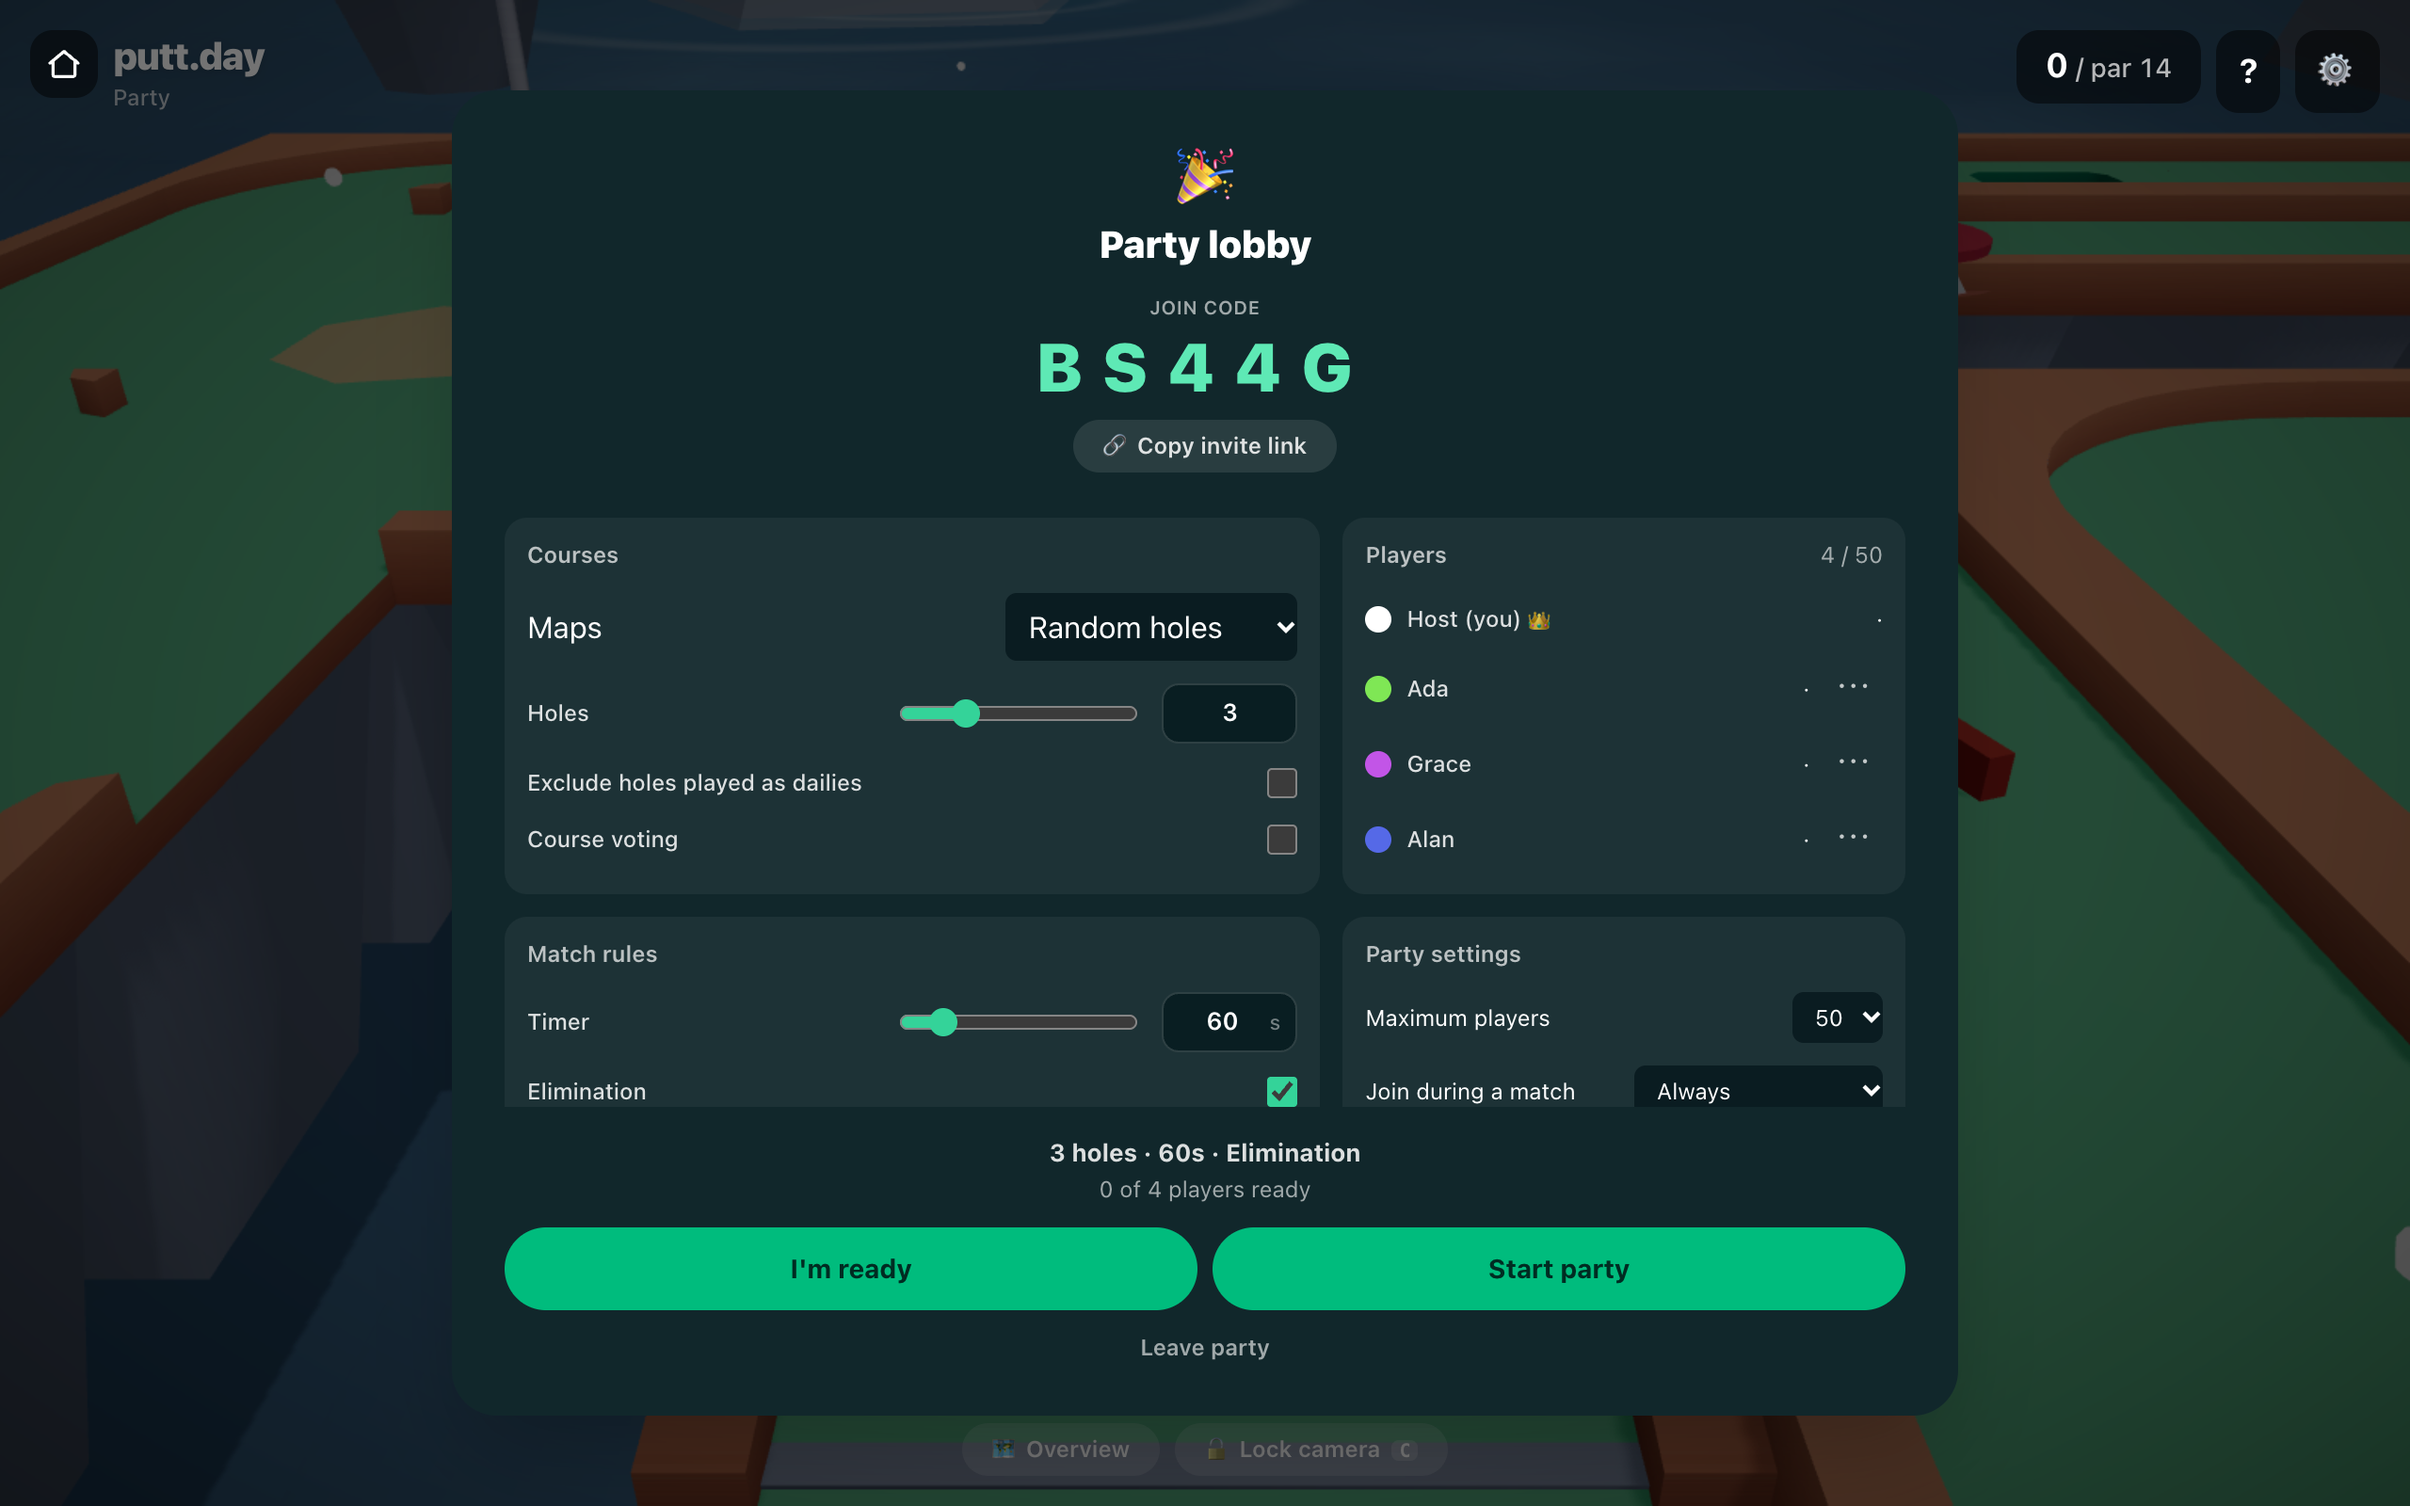
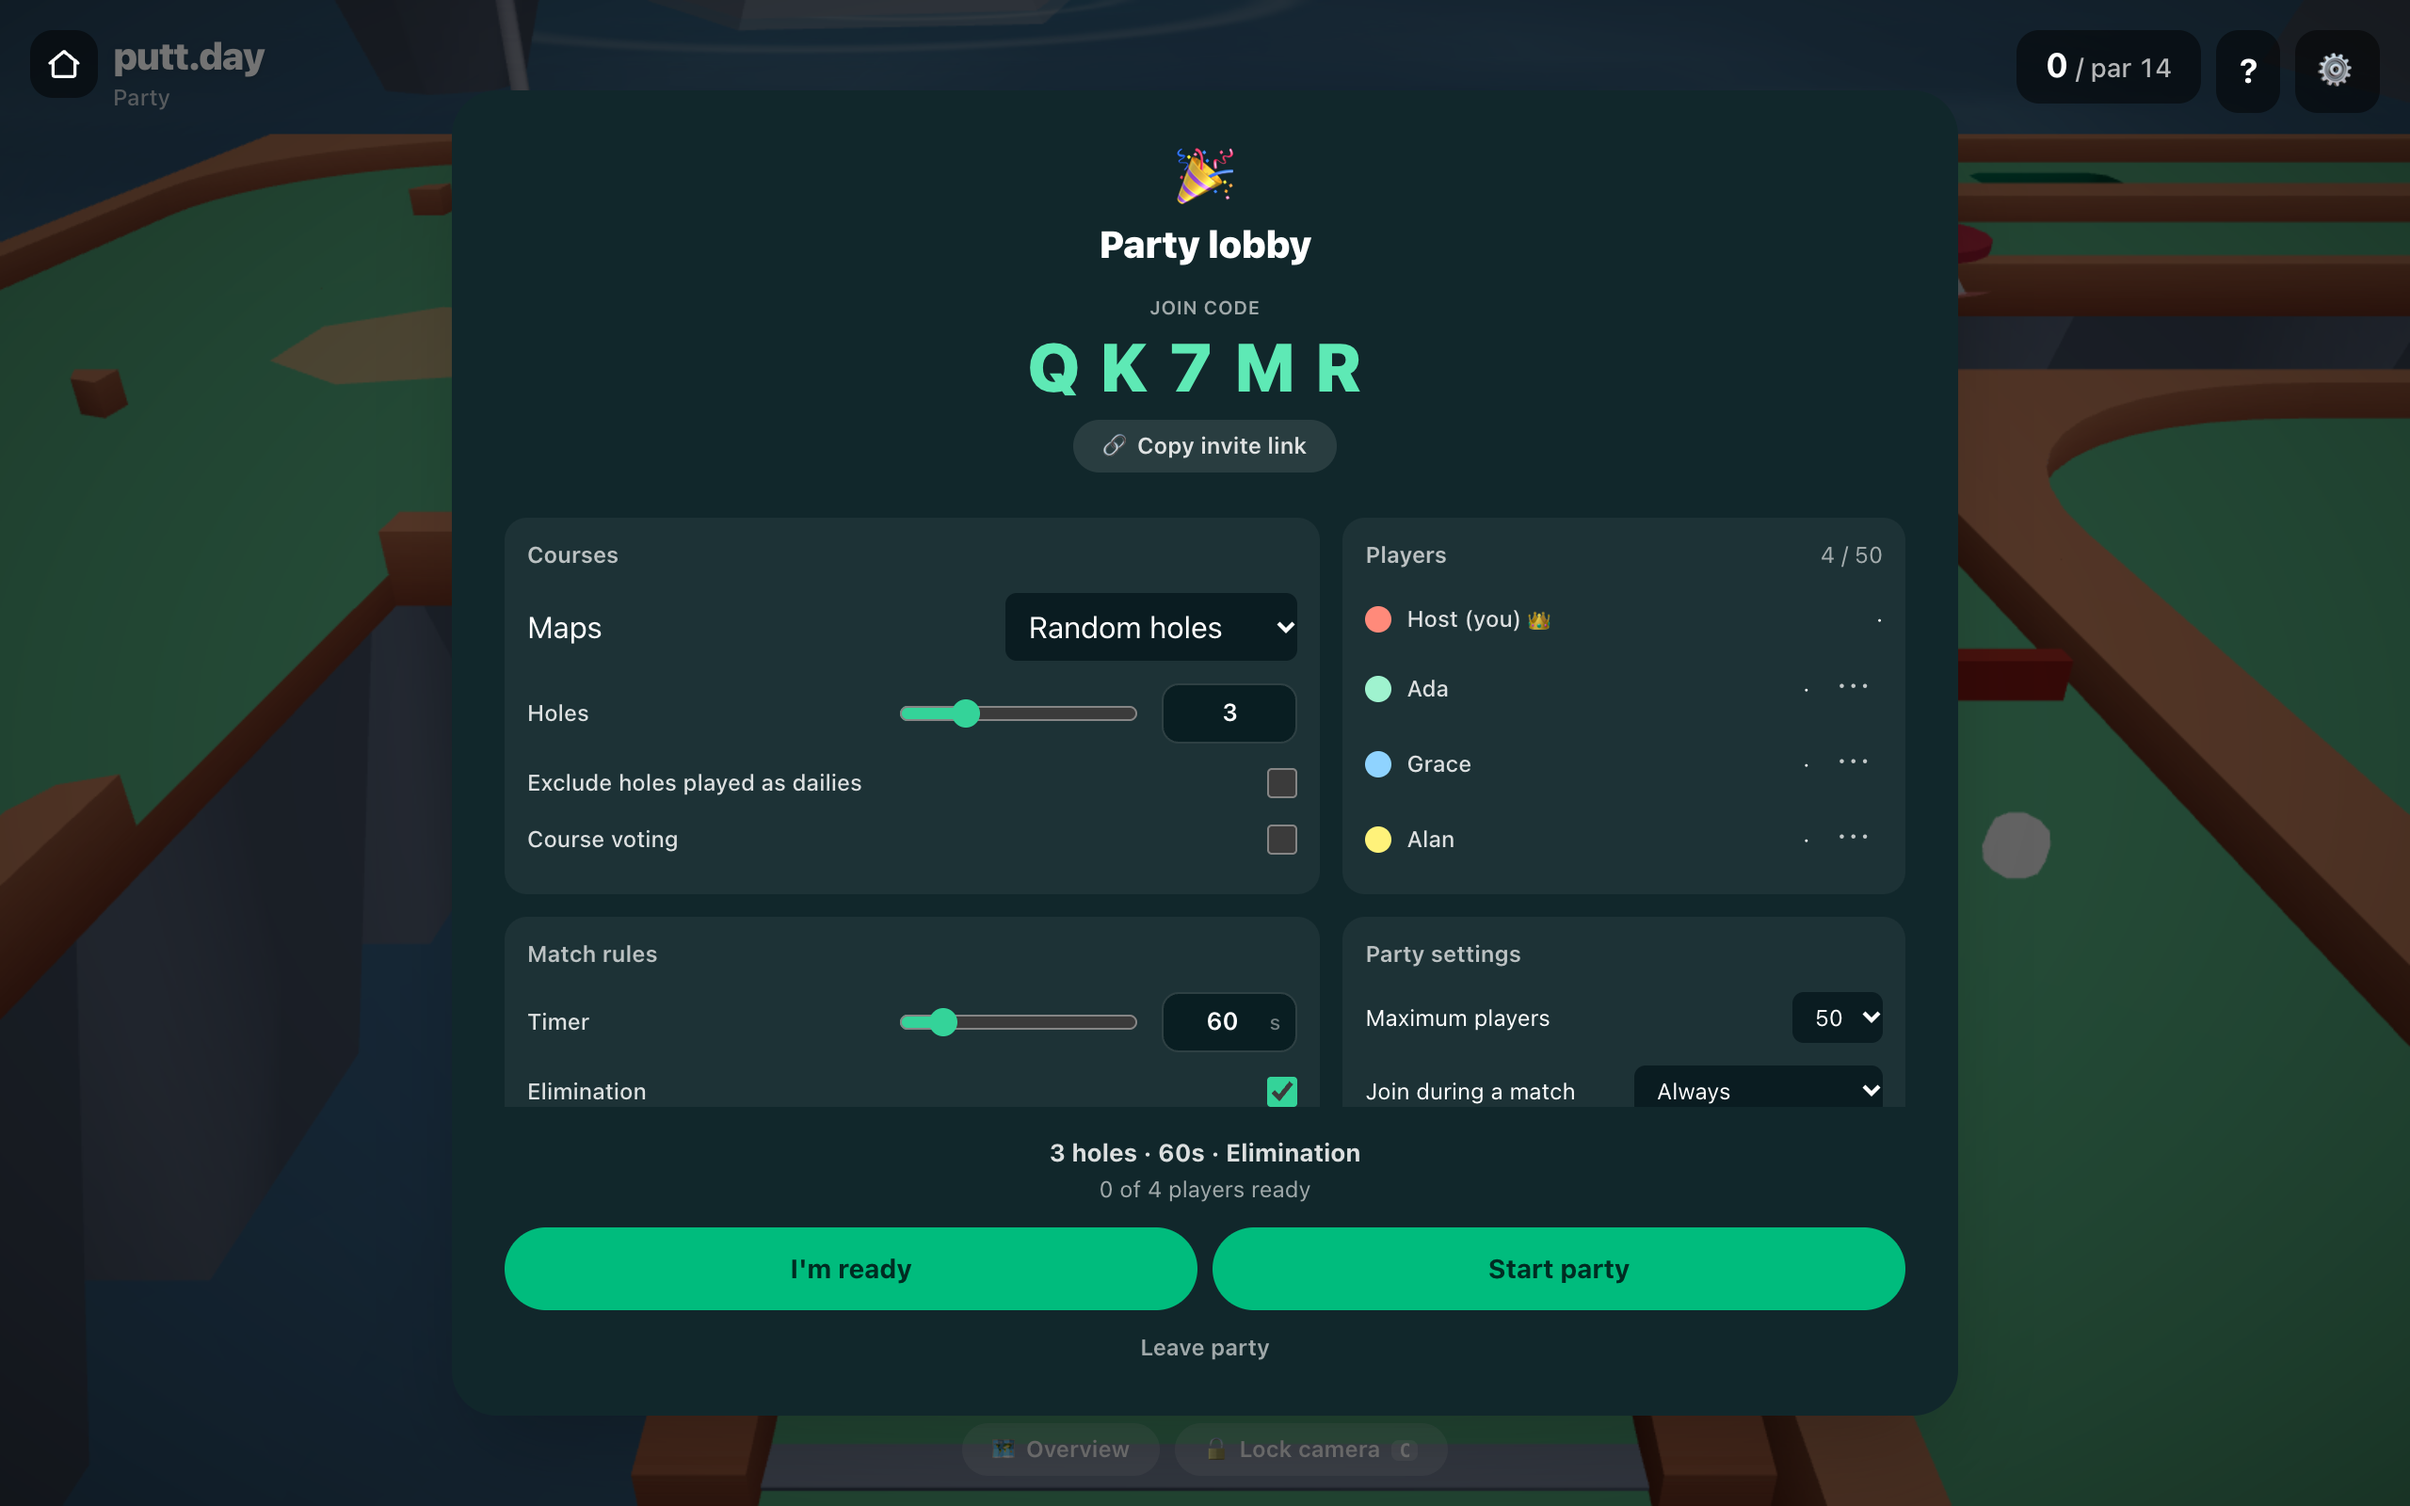
Make README screenshot re-captures byte-stable
Re-running the capture changed four of the five images, so a diff after an
intentional UI change was indistinguishable from the shot simply being taken
a second later. Five separate sources were found and each is now pinned:

- Ball colours: `Room.issue` draws a random hue per player. The join endpoint
  already accepts the `ball` the entry screen persists, so the host saves a
  palette preference before joining and each guest sends one. The colours
  rendered are the registry's own palette values, not overrides.
- The opening course: the first hole is drawn from the playlist by weighted
  vote. Narrowing the playlist to one course before starting leaves the draw
  a single outcome while still running the normal vote path.
- The animation clock: `performance.now` and the `requestAnimationFrame`
  timestamp are both pinned before any application script runs. The second
  matters separately — the course's moving obstacles step from it, so pinning
  only `performance.now` still let a gate arm advance between captures.
- The settling ball: physics still runs on real time, so a capture waits for
  the position to hold still across several samples.
- Per-run readings: the random room code and the two stopwatches have their
  text replaced by a `MutationObserver`, since no product path can pin a value
  that must stay unguessable or keep ticking. Only the characters change; the
  element, classes and layout are the product's own.
[…]

diff --git a/docs/development.md b/docs/development.md
@@ -15,6 +15,16 @@ bun run check
 
 The quality check runs Prettier, ESLint, Ruff, ShellCheck, strict TypeScript checking and the offline unit tests. CI uses the same check. The installed pre-commit hook formats and lints staged source, runs the type checker and runs the unit tests. Generated assets and room data are excluded from source control and formatting. The complete original asset snapshot is stored under `private-client/`, with every file listed by exact SHA-256 in `scripts/client-lock.json`. The quality check and pre-commit hook run `bun run prepare:client` to reconstruct the original validator and patched browser client offline. Catalog unit tests mock only public network answers and exercise the original pinned validator. No asset downloads or live public server are required.
 
+### Coverage
+
+`bun test --coverage` reports on authored code only: `bunfig.toml` excludes `private-client/`, `web/`, `node_modules/`, `tests/` and `scripts/`, so the figure describes the modules this project wrote rather than vendored bundles and test scaffolding. The patterns must be globs — a bare `private-client/` matches nothing.
+
+```sh
+bun test --coverage
+```
+
+There is deliberately no `coverageThreshold`. A percentage gate rewards tests that execute lines and punishes an honest `if`, so a drop is treated as a question — which behaviour is now unmeasured? — rather than a build failure. The per-file table is the artefact to read, and the low figures have known causes: `src/upstream.ts` and `src/upstream/client-adapter.ts` are facade and adapter layers exercised through their real consumers, `upstream/catalog.ts` and `upstream/transport.ts` carry request paths that need a live upstream or a mocked transport, and `shutdown.ts` is process-exit code driven by the integration harness. Behaviour-level gaps are closed by their own tests rather than by raising a number.
+
 ## Integration tests
 
 Prepare the client and start the service. Live integration tests exercise public read-only catalog endpoints and independent Better Party rooms:
@@ -131,6 +141,16 @@ BASE=http://127.0.0.1:8801 bun run capture:screenshots
 ```
 
 It drives a real prepared client against a real service: creates a party, joins three guests over the protocol, imports real public courses, opens the playlist editor, starts the round and captures the same hole again at 390px. Re-run it after an intentional UI change and commit the result; a stale screenshot is worse than none.
+
+A re-capture of an unchanged build produces byte-identical files, so a diff after a UI change shows only that change. Five things used to vary, and the script pins each one:
+
+- **Ball colours** come from the real join path: `/api/join` accepts the `ball` the entry screen saves in `localStorage`, so the host and each guest join with a palette entry instead of a random hue.
+- **The opening course** is drawn from the playlist by weighted vote. The playlist is narrowed to one course before the party starts, so the draw has a single possible outcome; the three-course playlist is still what the playlist shot shows.
+- **The animation clock** is pinned before any application script runs — both `performance.now` and the `requestAnimationFrame` timestamp, because the course's moving obstacles step from the latter.
+- **The settling ball** is waited out: the physics step is real even though the render clock is frozen, so a capture waits for the position to hold still for several samples.
+- **Per-run readings** — the random room code and the two stopwatches — have their text replaced with a fixed reading by a `MutationObserver`, since no product path can pin a value that must stay unguessable or keep ticking. Only the characters change; the element, classes and layout are the ones the product rendered.
+
+Catalogue thumbnails are lazy, so a capture waits for the ones on screen, and the guests join in sequence because the roster lists players in arrival order. Titles, ratings and thumbnails still come from the live catalog, so those can change when upstream does — that is expected of documentation.
 
 ### Known limits of the browser suite
 
